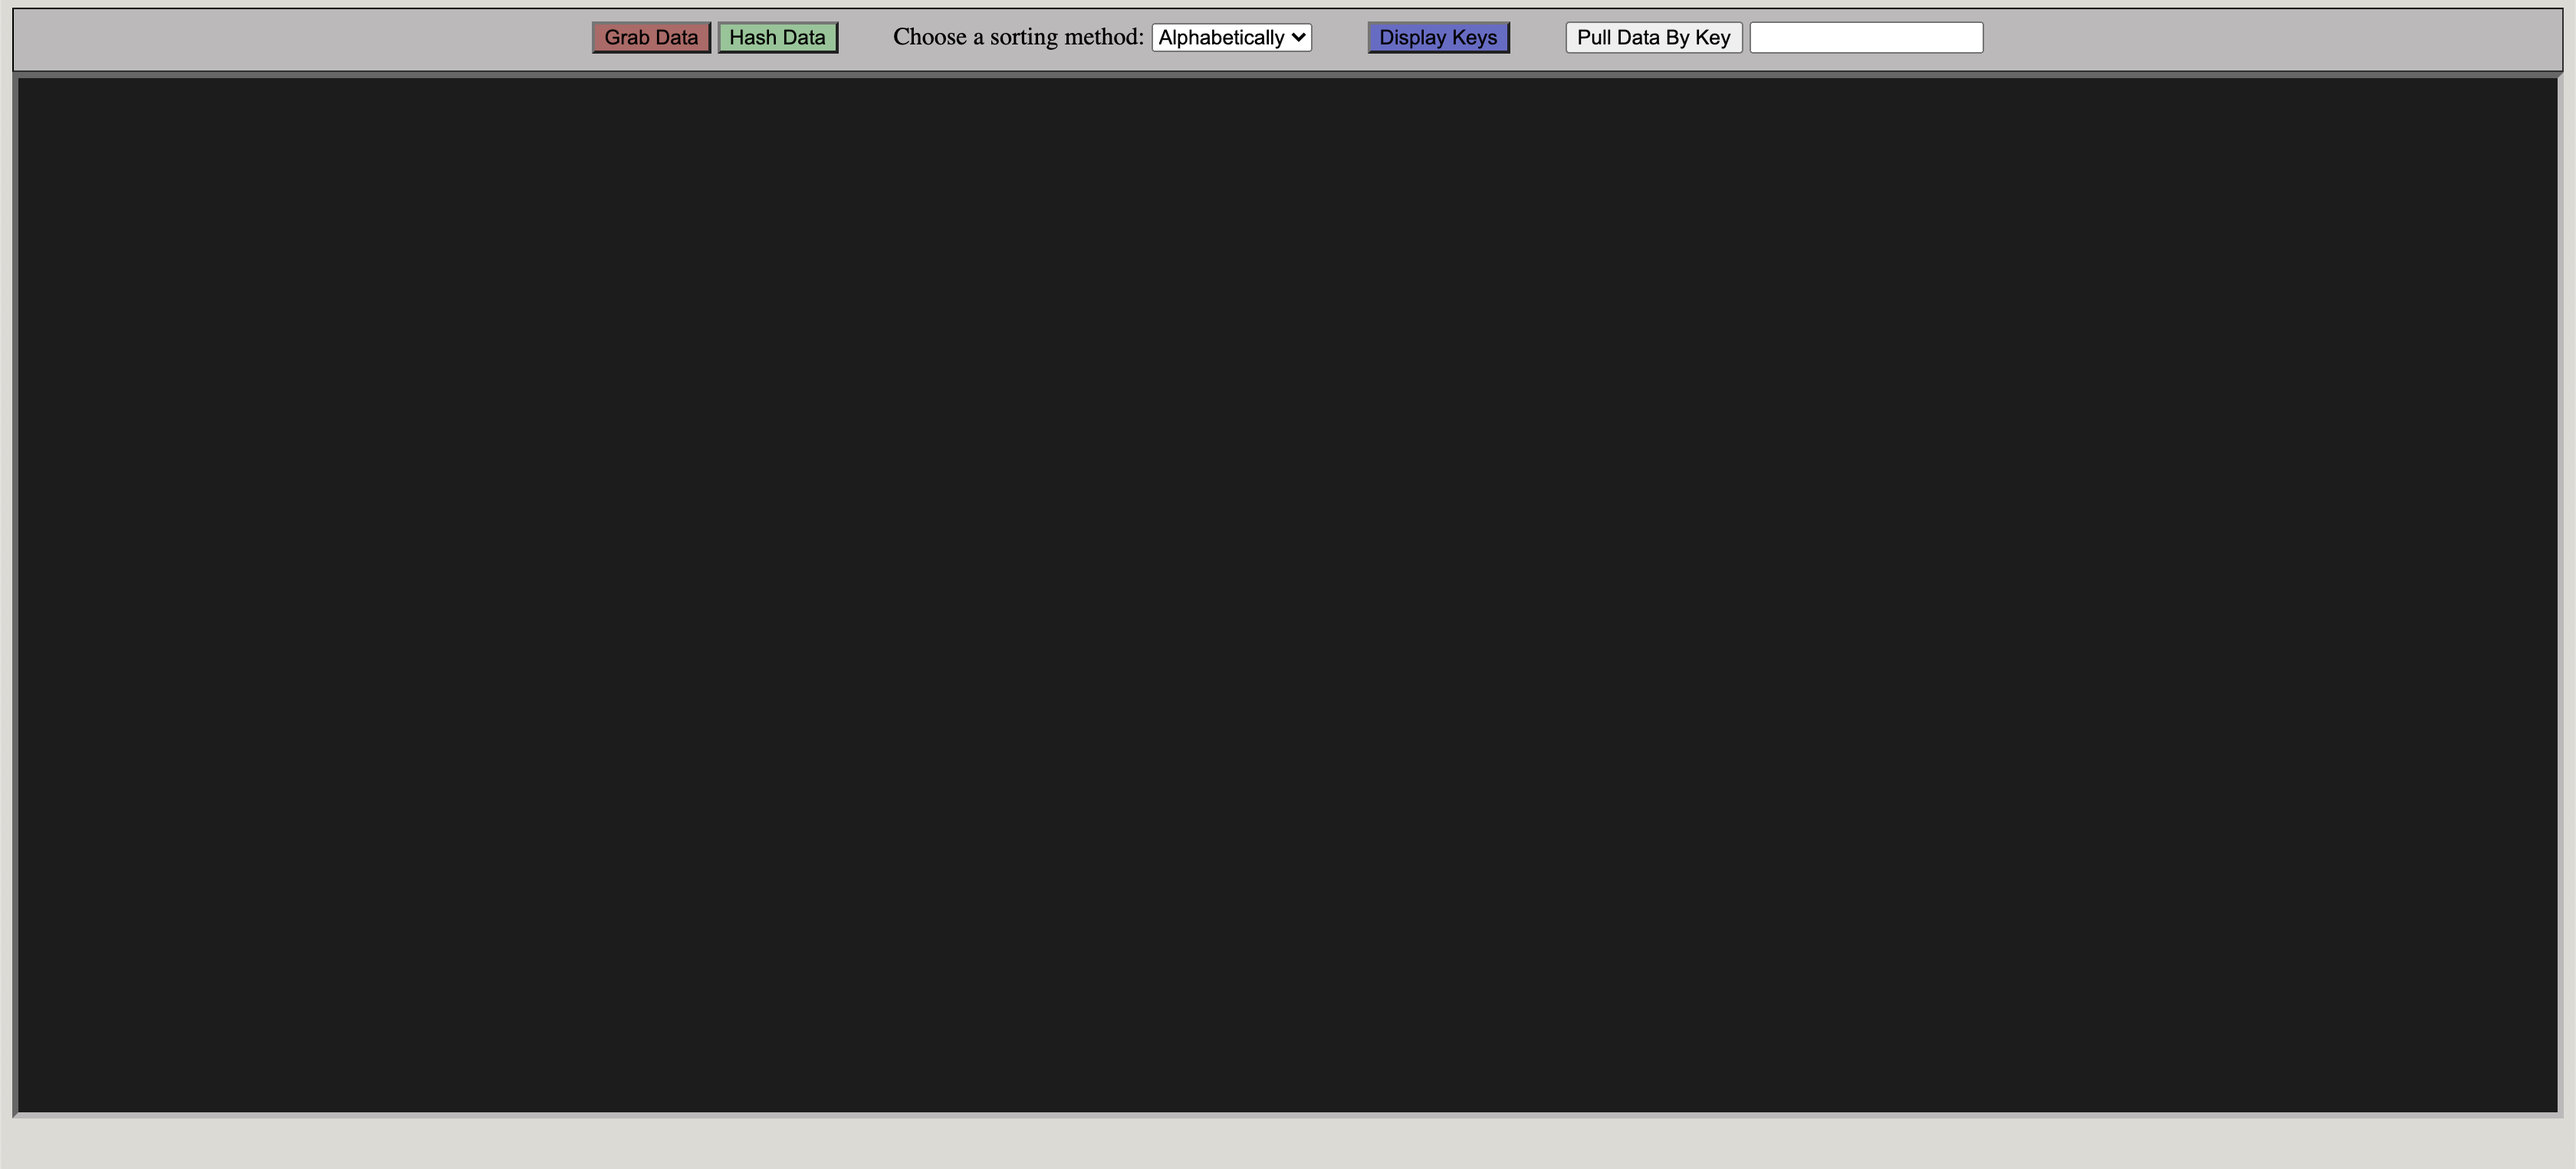
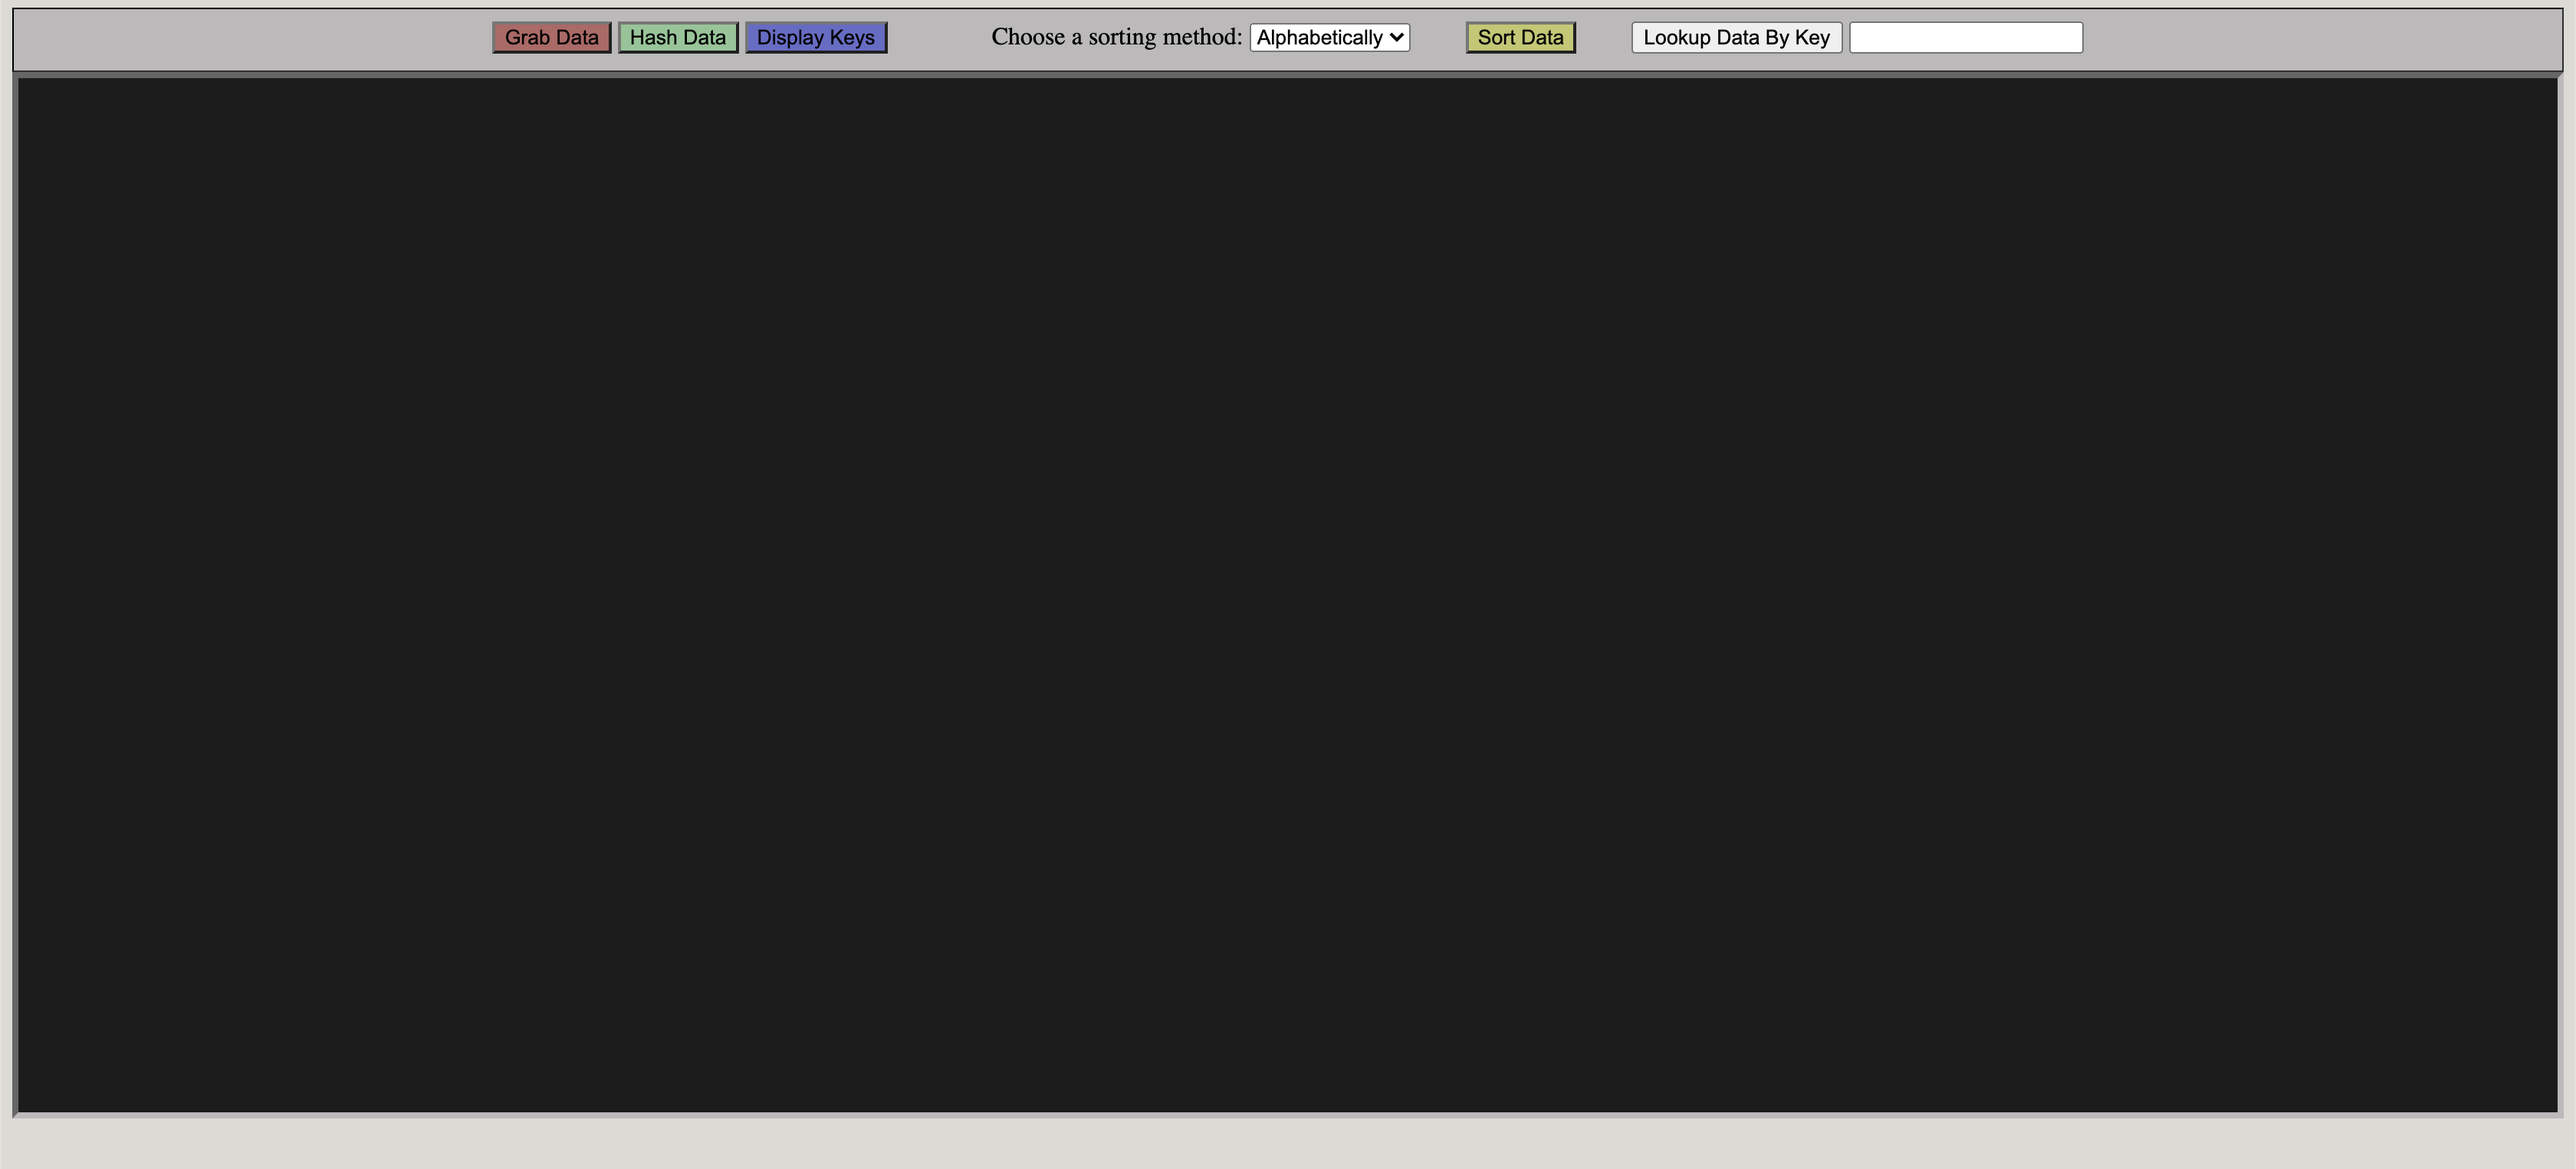
added sort button

Changed region(s): [[0.1875, 0.0, 0.7188, 0.0616], [0.75, 0.0, 0.8125, 0.0616]]

diff --git a/src/index.html b/src/index.html
@@ -12,12 +12,13 @@
     <div class="buttons">
       <button id="grabData">Grab Data</button>
       <button id="hashData">Hash Data</button>
+      <button id="displayData">Display Keys</button>
       <label for="sort" style="margin-left: 2rem;">Choose a sorting method:</label>
       <select name="sort" id="sort">
       <option value="Alphabetically">Alphabetically</option>
-     </select>
-      <button id="displayData">Display Keys</button>
-      <button id="searchButton">Pull Data By Key</button>
+    </select>
+    <button id="sortButton">Sort Data</button>
+    <button id="searchButton">Lookup Data By Key</button>
       <input id="searchField"></input>
     </div>
     <div class="display">

diff --git a/src/app.css b/src/app.css
@@ -51,6 +51,11 @@ body {
   background-color: rgba(83, 85, 204, 0.8);
 }
 
+#sortButton {
+  margin-right: 2rem;
+  background-color: rgba(196, 204, 83, 0.8);
+}
+
 #sort {
   margin-right: 2rem;
 }
